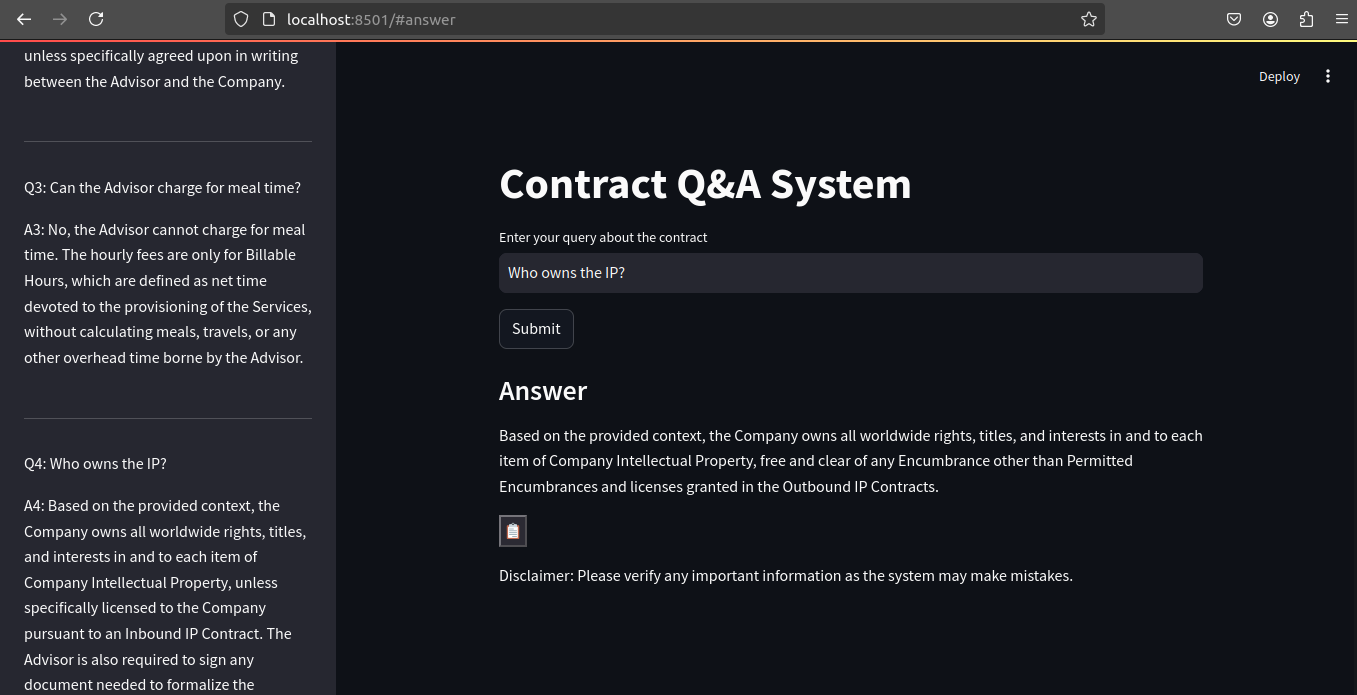
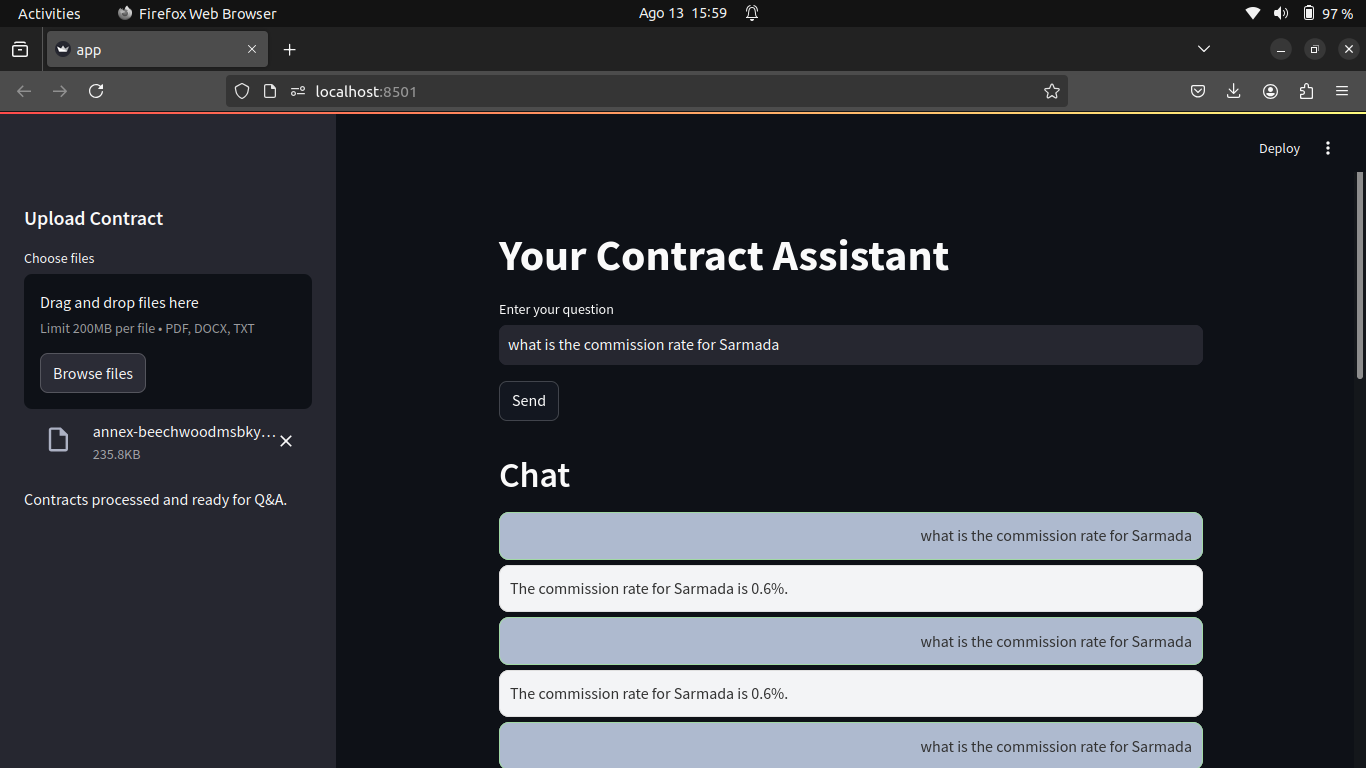
add document upload functionality

diff --git a/scripts/app.py b/scripts/app.py
@@ -2,68 +2,143 @@ import streamlit as st
 import os
 from dotenv import load_dotenv
 from langchain_community.vectorstores import Chroma
-#from langchain.docstore.document import Document
 from langchain.chains import RetrievalQA
 from langchain_openai import OpenAIEmbeddings, ChatOpenAI
-from langchain_openai import ChatOpenAI
-from langchain.retrievers.multi_query import MultiQueryRetriever
 from langchain.text_splitter import RecursiveCharacterTextSplitter
 from langchain_community.document_loaders import TextLoader
+from langchain.retrievers import EnsembleRetriever
+from langchain_community.retrievers import BM25Retriever
+import fitz
+from langchain.docstore.document import Document
+import io
+from docx import Document as DocxDocument
 import clipboard
 
 load_dotenv()
 
-embedding_function = OpenAIEmbeddings()
-db3 = Chroma(persist_directory="./chroma_db", embedding_function=embedding_function)
-
-llm = ChatOpenAI(model_name="gpt-4o", temperature=0)
-retriever_from_llm = MultiQueryRetriever.from_llm(
-    retriever=db3.as_retriever(), llm=llm
+llm = ChatOpenAI(
+    model_name="gpt-4o-mini",
+    api_key=os.getenv("OPENAI_API_KEY"),
+    temperature=0,
+    model_kwargs={"top_p": 0, "frequency_penalty": 0, "presence_penalty": 0},
 )
 
-rag_chain = RetrievalQA.from_chain_type(llm, chain_type="stuff", retriever=retriever_from_llm)
+embedding = OpenAIEmbeddings()
 
-# Streamlit UI
-st.title("Contract Q&A System")
+def extract_text_from_pdf(file):
+    text = ""
+    try:
+        with fitz.open(stream=file.read(), filetype="pdf") as doc:
+            for page in doc:
+                text += page.get_text()
+    except Exception as e:
+        st.error(f"Error reading PDF file: {e}")
+    return text
 
+def extract_text_from_docx(file):
+    text = ""
+    try:
+        doc = DocxDocument(file)
+        for para in doc.paragraphs:
+            text += para.text + "\n"
+    except Exception as e:
+        st.error(f"Error reading DOCX file: {e}")
+    return text
+
+def extract_text_from_txt(file):
+    text = ""
+    try:
+        text = file.read().decode("utf-8")
+    except Exception as e:
+        st.error(f"Error reading TXT file: {e}")
+    return text
+
+def process_documents(texts):
+    chunk_size = 500
+    chunk_overlap = 50
+
+    text_splitter = RecursiveCharacterTextSplitter(chunk_size=chunk_size, chunk_overlap=chunk_overlap)
+
+    chunks = []
+    for text in texts:
+        chunks.extend(text_splitter.split_text(text))
+
+    documents = [Document(page_content=chunk) for chunk in chunks]
+
+    bm25_retriever = BM25Retriever.from_documents(documents)
+    bm25_retriever.k = 2
+
+    chroma_vectorstore = Chroma.from_documents(documents, embedding)
+    chroma_retriever = chroma_vectorstore.as_retriever()
+
+    ensemble_retriever = EnsembleRetriever(
+        retrievers=[bm25_retriever, chroma_retriever], weights=[0.5, 0.5]
+    )
+
+    rag_chain = RetrievalQA.from_chain_type(llm, chain_type="stuff", retriever=ensemble_retriever)
+    return rag_chain
+
+# Initialize session state
+if "rag_chain" not in st.session_state:
+    st.session_state.rag_chain = None
 if "history" not in st.session_state:
     st.session_state.history = []
-
 if "copied" not in st.session_state:
     st.session_state.copied = []
 
 def rag_qa(query):
-    response = rag_chain.invoke(query)
-    return response['result']
+    if st.session_state.rag_chain:
+        response = st.session_state.rag_chain.invoke(query)
+        return response['result']
+    return "No contract loaded."
 
 def on_copy_click(text):
     st.session_state.copied.append(text)
     clipboard.copy(text)
 
-# Sidebar
+# Sidebar for file upload
 with st.sidebar:
-    st.header("Chat History")
-    search_query = st.text_input("Search chat history")
-    if st.button("Search"):
-        search_results = [(i, q, a) for i, (q, a) in enumerate(st.session_state.history) if search_query.lower() in q.lower() or search_query.lower() in a.lower()]
-        for i, query, answer in search_results:
-            st.write(f"Q{i+1}: {query}")
-            st.write(f"A{i+1}: {answer}")
-            st.write("---")
-    for i, (query, answer) in enumerate(st.session_state.history):
-        st.write(f"Q{i+1}: {query}")
-        st.write(f"A{i+1}: {answer}")
-        st.write("---")
+    st.header("Upload Contract")
+    uploaded_files = st.file_uploader("Choose files", type=["pdf", "docx", "txt"], accept_multiple_files=True)
+    
+    if uploaded_files:
+        texts = []
+        for file in uploaded_files:
+            if file.type == "application/pdf":
+                file_text = extract_text_from_pdf(file)
+            elif file.type == "application/vnd.openxmlformats-officedocument.wordprocessingml.document":
+                file_text = extract_text_from_docx(file)
+            elif file.type == "text/plain":
+                file_text = extract_text_from_txt(file)
+            else:
+                st.error(f"Unsupported file type: {file.type}")
+                continue
+            
+            if file_text:
+                texts.append(file_text)
+        if texts:
+            st.session_state.rag_chain = process_documents(texts)
+            st.write("Contracts processed and ready for Q&A.")
+        else:
+            st.error("No text extracted from uploaded files.")
 
-query = st.text_input("Enter your query about the contract")
-if st.button("Submit"):
+# Main chatbox
+st.title("Your Contract Assistant")
+
+query = st.text_input("Enter your question")
+
+if st.button("Send"):
     if query:
         answer = rag_qa(query)
-        st.session_state.history.append((query, answer))
-        st.write("### Answer")
-        st.write(answer)
+        st.session_state.history.insert(0, ("Assistant", answer))
+        st.session_state.history.insert(0, ("You", query))
+        st.write("## Chat")
+        for sender, message in st.session_state.history:
+            if sender == "You":
+                st.markdown(f"<div style='text-align: right; padding: 10px; background-color: #AEBACF; border: 1px solid #a1d8a4; color: #333; border-radius: 10px; margin-bottom: 5px;'>{message}</div>", unsafe_allow_html=True)
+            else:
+                st.markdown(f"<div style='text-align: left; padding: 10px; background-color: #f3f4f6; color: #333; border-radius: 10px; margin-bottom: 5px; border: 1px solid #e0e0e0;'>{message}</div>", unsafe_allow_html=True)
         st.button("📋", on_click=on_copy_click, args=(answer,))
-        st.toast(f"Copied to clipboard", icon='✅')
+        st.toast("Copied to clipboard", icon='✅')
 
 st.write("Disclaimer! Please verify any important information as the system may make mistakes.")
-st.sidebar.write("Developed by Daisy Cherono")
